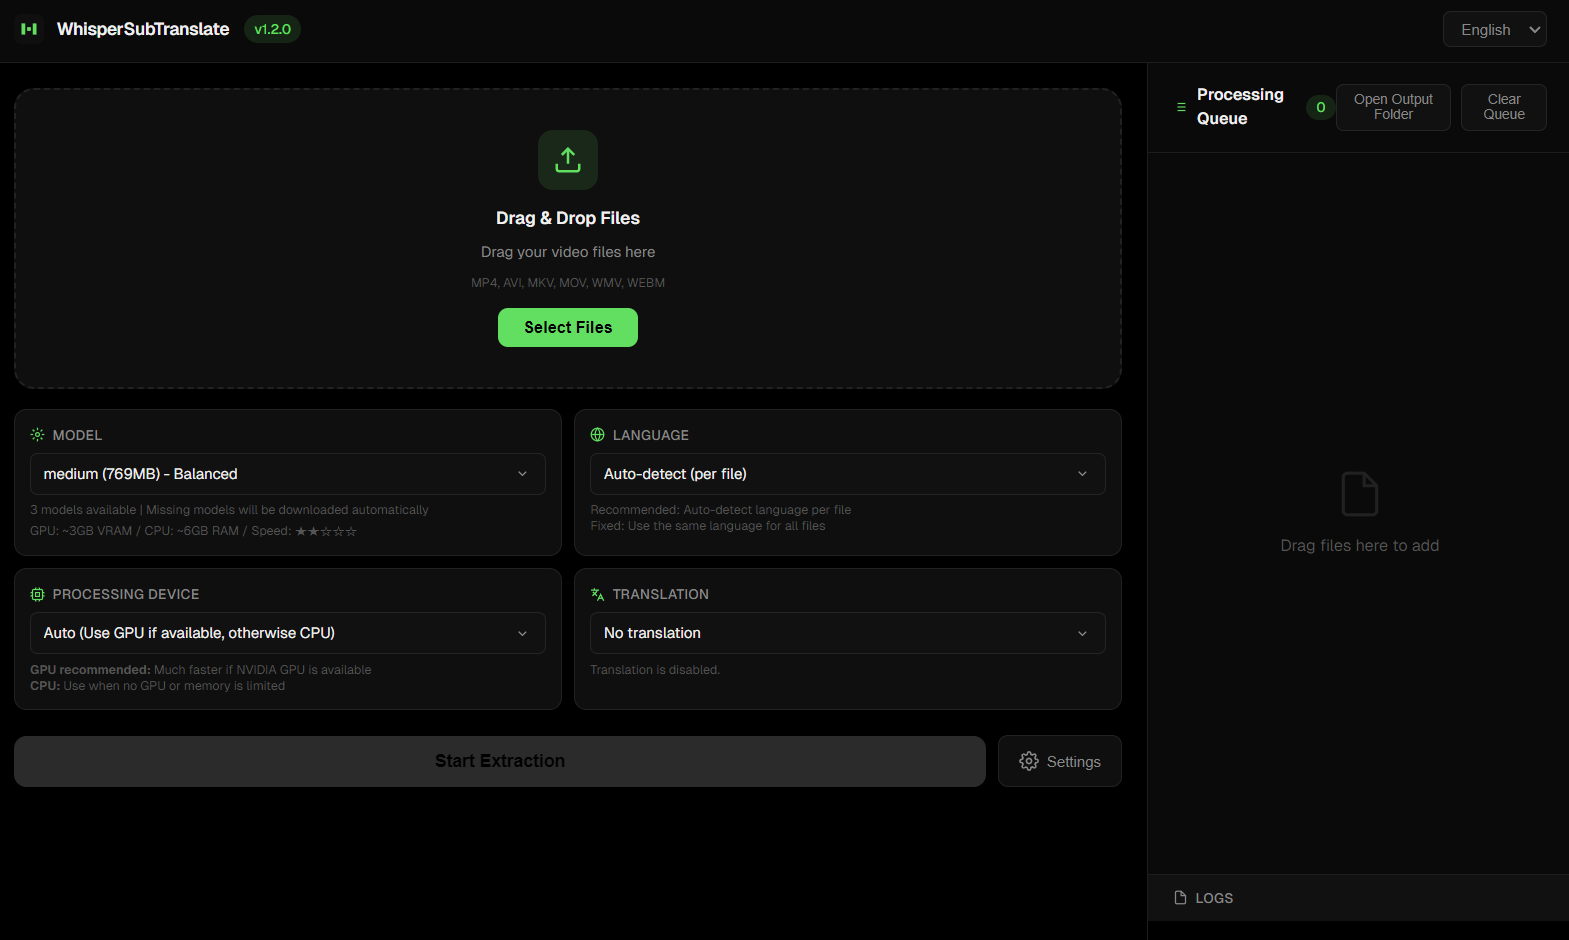
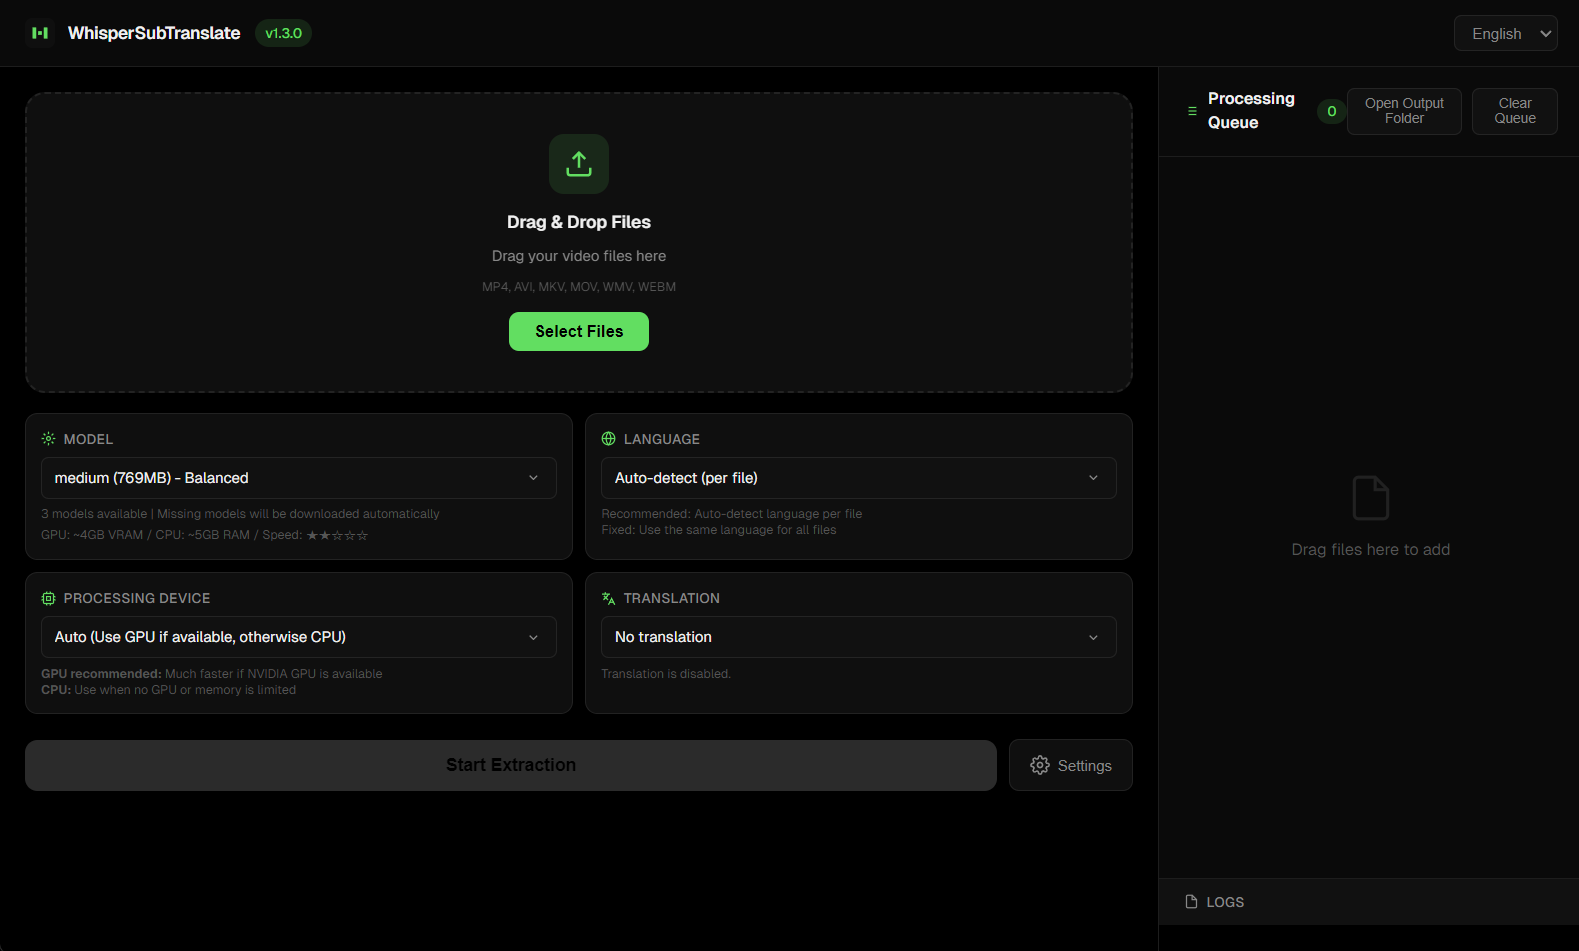
docs: update screenshots to v1.3.0 and add large-v3-turbo to READMEs
- Update all preview screenshots with v1.3.0 UI
- Add large-v3-turbo model to model comparison tables
- Update VRAM specs for whisper.cpp (GGML optimized)
- Add source reference to whisper.cpp GitHub
- Update portable version to v1.3.0

diff --git a/README.ja.md b/README.ja.md
@@ -31,7 +31,7 @@
 
 ### 一般ユーザー: ポータブル版で実行
 
-- Releases から最新のポータブルアーカイブをダウンロード：`WhisperSubTranslate-v1.2.0-portable.zip`
+- Releases から最新のポータブルアーカイブをダウンロード：`WhisperSubTranslate-v1.3.0-portable.zip`
 - 展開後のフォルダで `WhisperSubTranslate.exe` を実行
 
 すぐに使えます。抽出はPCで完全オフラインで実行されます。翻訳はオプション（無料MyMemoryがデフォルト、DeepL/OpenAIは自分のAPIキーが必要）。
@@ -96,8 +96,11 @@ whisper.cppは100以上の言語をサポートしています（英語、スペ
 | tiny | ~75MB | ~1GB | 最速 | 基本 |
 | base | ~142MB | ~1GB | 速い | 良好 |
 | small | ~466MB | ~2GB | 中程度 | より良い |
-| medium | ~1.5GB | ~5GB | 遅い | 素晴らしい |
-| large-v3 | ~3GB | ~10GB | 最も遅い | 最高 |
+| medium | ~1.5GB | ~4GB | 遅い | 素晴らしい |
+| large-v3 | ~3GB | ~5GB | 最も遅い | 最高 |
+| large-v3-turbo ⭐ | ~809MB | ~4GB | 速い | 優秀 |
+
+> 注：VRAM要件は[whisper.cpp](https://github.com/ggerganov/whisper.cpp)のGGML最適化基準であり、PyTorch Whisper（large約10GB）よりも大幅に低いです。テスト済み：6GB VRAM GPUでlarge-v3動作確認。
 
 ## ブランチ（シンプル Trunk）
 

diff --git a/README.ko.md b/README.ko.md
@@ -31,7 +31,7 @@
 
 ### 사용자: 포터블 배포판 실행
 
-- Releases에서 최신 포터블 압축 파일 다운로드: `WhisperSubTranslate-v1.2.0-portable.zip`
+- Releases에서 최신 포터블 압축 파일 다운로드: `WhisperSubTranslate-v1.3.0-portable.zip`
 - 압축 해제한 폴더에서 `WhisperSubTranslate.exe` 실행
 
 바로 사용 가능합니다. 추출은 PC에서 완전 오프라인으로 실행됩니다. 번역은 선택 사항(무료 MyMemory 기본 제공, DeepL/OpenAI는 본인 API 키 필요).
@@ -96,8 +96,11 @@ whisper.cpp는 100개 이상의 언어를 지원합니다 (영어, 스페인어,
 | tiny | ~75MB | ~1GB | 가장 빠름 | 기본 |
 | base | ~142MB | ~1GB | 빠름 | 좋음 |
 | small | ~466MB | ~2GB | 보통 | 더 좋음 |
-| medium | ~1.5GB | ~5GB | 느림 | 훌륭함 |
-| large-v3 | ~3GB | ~10GB | 가장 느림 | 최고 |
+| medium | ~1.5GB | ~4GB | 느림 | 훌륭함 |
+| large-v3 | ~3GB | ~5GB | 가장 느림 | 최고 |
+| large-v3-turbo ⭐ | ~809MB | ~4GB | 빠름 | 뛰어남 |
+
+> 참고: VRAM 요구사항은 [whisper.cpp](https://github.com/ggerganov/whisper.cpp)의 GGML 최적화 기준이며, PyTorch Whisper(large ~10GB)보다 훨씬 낮습니다. 테스트: 6GB VRAM GPU에서 large-v3 동작 확인.
 
 ## 브랜치(단순 Trunk)
 

diff --git a/README.md b/README.md
@@ -33,7 +33,7 @@ Subtitle extraction runs 100% locally — your video never leaves your machine. 
 
 ## Quick Start (Portable)
 
-- Download the latest portable archive from Releases: `WhisperSubTranslate-v1.2.0-portable.zip`
+- Download the latest portable archive from Releases: `WhisperSubTranslate-v1.3.0-portable.zip`
 - Open the extracted folder and run `WhisperSubTranslate.exe`
 
 That's it — extraction runs fully offline on your PC. Translation is optional (free MyMemory is pre‑wired; DeepL/OpenAI require your own API keys).
@@ -98,8 +98,11 @@ Models are stored under `_models/` and auto‑downloaded on demand. Choose a siz
 | tiny | ~75MB | ~1GB | Fastest | Basic |
 | base | ~142MB | ~1GB | Fast | Good |
 | small | ~466MB | ~2GB | Medium | Better |
-| medium | ~1.5GB | ~5GB | Slow | Great |
-| large-v3 | ~3GB | ~10GB | Slowest | Best |
+| medium | ~1.5GB | ~4GB | Slow | Great |
+| large-v3 | ~3GB | ~5GB | Slowest | Best |
+| large-v3-turbo ⭐ | ~809MB | ~4GB | Fast | Excellent |
+
+> Note: VRAM requirements are for [whisper.cpp](https://github.com/ggerganov/whisper.cpp) with GGML optimization, which is significantly lower than PyTorch Whisper (~10GB for large). Tested: large-v3 works on 6GB VRAM GPU.
 
 ## Branching model (simple trunk)
 
